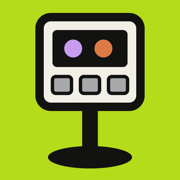
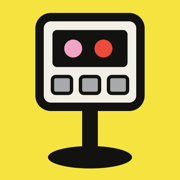
Switch to a retro festival-poster palette
Yellow #f5e43f replaces lime, pink #f3a3c4 replaces lilac, coral
#ec4b3a replaces orange, and sky blue #45b4d8 joins for the how-it-works
band, the fourth included icon and the ticker dots, which now cycle
through all four. Favicon and logo marks updated to match.

diff --git a/index.html b/index.html
@@ -18,9 +18,11 @@
   --paper:#f1efe6;     /* sticker backing sheet */
   --ink:#121211;       /* brand near-black */
   --white:#ffffff;
-  --lime:#b4dc1a;      /* brand accent */
-  --lilac:#c99cf2;     /* brand light accent */
-  --orange:#dd7b47;    /* brand dark accent */
+  /* retro festival-poster palette */
+  --yellow:#f5e43f;    /* main accent: buttons, featured card, contact */
+  --pink:#f3a3c4;      /* soft accent */
+  --coral:#ec4b3a;     /* hot accent: badges, tags */
+  --blue:#45b4d8;      /* cool accent: how-it-works band */
   --muted:#5c5b52;
   --display:"Averia Serif Libre", Georgia, "Times New Roman", serif;
   --body:"Schibsted Grotesk", "Helvetica Neue", Arial, sans-serif;
@@ -33,7 +35,7 @@ html{scroll-behavior:smooth}
 body{margin:0;background:var(--paper);color:var(--ink);font:400 1.0625rem/1.55 var(--body);-webkit-font-smoothing:antialiased}
 img{max-width:100%;display:block;height:auto}
 a{color:inherit}
-:focus-visible{outline:3px solid var(--orange);outline-offset:3px}
+:focus-visible{outline:3px solid var(--coral);outline-offset:3px}
 h1,h2,h3{font-family:var(--display);font-weight:700;line-height:1.02;text-wrap:balance;margin:0;letter-spacing:-.01em}
 p{margin:0}
 .wrap{max-width:1160px;margin:0 auto;padding-left:var(--gutter-l);padding-right:var(--gutter-r)}
@@ -45,7 +47,7 @@ p{margin:0}
 .sticker{background:var(--white);border:2px solid var(--ink);border-radius:22px;box-shadow:0 0 0 7px var(--white),0 0 0 9px var(--ink),6px 10px 0 9px rgba(18,18,17,.12)}
 
 /* buttons */
-.btn{display:inline-flex;align-items:center;gap:.6em;font:700 1rem/1 var(--body);text-decoration:none;color:var(--ink);background:var(--lime);border:2px solid var(--ink);border-radius:999px;padding:1em 1.5em;box-shadow:4px 4px 0 var(--ink);transition:transform .15s ease,box-shadow .15s ease;cursor:pointer}
+.btn{display:inline-flex;align-items:center;gap:.6em;font:700 1rem/1 var(--body);text-decoration:none;color:var(--ink);background:var(--yellow);border:2px solid var(--ink);border-radius:999px;padding:1em 1.5em;box-shadow:4px 4px 0 var(--ink);transition:transform .15s ease,box-shadow .15s ease;cursor:pointer}
 .btn:hover{transform:translate(-2px,-2px);box-shadow:6px 6px 0 var(--ink)}
 .btn:active{transform:translate(2px,2px);box-shadow:2px 2px 0 var(--ink)}
 .btn svg{width:18px;height:18px}
@@ -66,14 +68,14 @@ nav .btn{padding:.7em 1.1em;font-size:.92rem;box-shadow:3px 3px 0 var(--ink)}
 .hero .wrap{display:grid;grid-template-columns:1.15fr .85fr;gap:clamp(32px,5vw,72px);align-items:center;padding-block:clamp(40px,7vw,96px)}
 .hero h1{font-size:clamp(3rem,8.2vw,6.6rem);line-height:.86}
 .hero h1 em{font-style:italic;font-weight:400;position:relative;white-space:nowrap}
-.hero h1 em::after{content:"";position:absolute;left:-.04em;right:-.04em;bottom:.04em;height:.32em;background:var(--lilac);z-index:-1;border-radius:4px}
+.hero h1 em::after{content:"";position:absolute;left:-.04em;right:-.04em;bottom:.04em;height:.32em;background:var(--pink);z-index:-1;border-radius:4px}
 .hero h1{position:relative;z-index:0}
 .hero .lede{font-size:clamp(1.1rem,1.6vw,1.3rem);max-width:34ch;margin-top:24px}
 .hero .lede strong{font-weight:700}
 .hero .cta-row{display:flex;flex-wrap:wrap;gap:16px 24px;align-items:center;margin-top:32px}
 .hero .cta-row small{font-size:.92rem;color:var(--muted)}
 .hero-art{position:relative;max-width:440px;justify-self:center;width:100%}
-.hero-art .badge{position:absolute;top:-8px;right:-2px;width:86px;height:86px;border-radius:50%;background:var(--orange);border:2px solid var(--ink);display:grid;place-items:center;text-align:center;font:700 .82rem/1.05 var(--display);transform:rotate(12deg);box-shadow:0 0 0 4px var(--white),0 0 0 6px var(--ink)}
+.hero-art .badge{position:absolute;top:-8px;right:-2px;width:86px;height:86px;border-radius:50%;background:var(--coral);border:2px solid var(--ink);display:grid;place-items:center;text-align:center;font:700 .82rem/1.05 var(--display);transform:rotate(12deg);box-shadow:0 0 0 4px var(--white),0 0 0 6px var(--ink)}
 .hero-art img{transform:rotate(-2deg)}
 @media (max-width:820px){.hero .wrap{grid-template-columns:1fr}.hero-art{max-width:340px}}
 
@@ -81,7 +83,10 @@ nav .btn{padding:.7em 1.1em;font-size:.92rem;box-shadow:3px 3px 0 var(--ink)}
 .ticker{background:var(--ink);color:var(--paper);overflow:hidden;border-block:2px solid var(--ink)}
 .ticker-track{display:flex;gap:40px;width:max-content;padding-block:14px;font:400 1.25rem/1 var(--display);animation:slide 38s linear infinite}
 .ticker-track span{display:inline-flex;align-items:center;gap:40px;white-space:nowrap}
-.ticker-track span::after{content:"";width:12px;height:12px;border-radius:50%;background:var(--lime)}
+.ticker-track span::after{content:"";width:12px;height:12px;border-radius:50%;background:var(--yellow)}
+.ticker-track span:nth-child(4n+2)::after{background:var(--coral)}
+.ticker-track span:nth-child(4n+3)::after{background:var(--blue)}
+.ticker-track span:nth-child(4n+4)::after{background:var(--pink)}
 @keyframes slide{to{transform:translateX(-50%)}}
 
 /* intro */
@@ -101,7 +106,7 @@ nav .btn{padding:.7em 1.1em;font-size:.92rem;box-shadow:3px 3px 0 var(--ink)}
 @media (max-width:820px){.intro .wrap{grid-template-columns:1fr}}
 
 /* how it works */
-.how{background:var(--lilac);border-block:2px solid var(--ink)}
+.how{background:var(--blue);border-block:2px solid var(--ink)}
 .section-head{display:flex;flex-wrap:wrap;align-items:end;justify-content:space-between;gap:16px 32px;margin-bottom:clamp(36px,5vw,56px)}
 .section-head h2{font-size:clamp(2.4rem,5vw,4rem)}
 .section-head p{max-width:38ch}
@@ -110,7 +115,7 @@ nav .btn{padding:.7em 1.1em;font-size:.92rem;box-shadow:3px 3px 0 var(--ink)}
 .step:nth-child(odd){transform:rotate(-1.2deg)}
 .step:nth-child(even){transform:rotate(1.2deg) translateY(10px)}
 .step .num{font:700 2.6rem/1 var(--display);display:flex;align-items:center;justify-content:space-between}
-.step .num span{font:700 .72rem/1 var(--body);letter-spacing:.12em;text-transform:uppercase;border:2px solid var(--ink);border-radius:999px;padding:.4em .7em;background:var(--lime)}
+.step .num span{font:700 .72rem/1 var(--body);letter-spacing:.12em;text-transform:uppercase;border:2px solid var(--ink);border-radius:999px;padding:.4em .7em;background:var(--yellow)}
 .step img{height:150px;width:auto;margin:4px auto 0;object-fit:contain}
 .step h3{font-size:1.45rem}
 .step p{font-size:.98rem}
@@ -121,9 +126,9 @@ nav .btn{padding:.7em 1.1em;font-size:.92rem;box-shadow:3px 3px 0 var(--ink)}
 .rates-grid{display:grid;grid-template-columns:repeat(3,minmax(0,1fr));gap:32px;padding:10px}
 .rate{padding:28px 26px;display:flex;flex-direction:column;gap:18px;position:relative}
 .rate:nth-child(1){background:var(--white)}
-.rate:nth-child(2){background:var(--lime);transform:translateY(-12px)}
+.rate:nth-child(2){background:var(--yellow);transform:translateY(-12px)}
 .rate:nth-child(3){background:var(--white)}
-.rate .tag{position:absolute;top:-18px;right:18px;background:var(--orange);border:2px solid var(--ink);border-radius:999px;font:700 .72rem/1 var(--body);letter-spacing:.12em;text-transform:uppercase;padding:.55em .9em;transform:rotate(4deg)}
+.rate .tag{position:absolute;top:-18px;right:18px;background:var(--coral);border:2px solid var(--ink);border-radius:999px;font:700 .72rem/1 var(--body);letter-spacing:.12em;text-transform:uppercase;padding:.55em .9em;transform:rotate(4deg)}
 .rate h3{font-size:1.6rem}
 .rate .length{font-size:.95rem;color:var(--muted);margin-top:4px}
 .rate:nth-child(2) .length{color:var(--ink)}
@@ -142,13 +147,13 @@ nav .btn{padding:.7em 1.1em;font-size:.92rem;box-shadow:3px 3px 0 var(--ink)}
 .inc{background:var(--ink);padding:28px 24px;display:flex;flex-direction:column;gap:12px}
 .inc .icon{width:52px;height:52px;border-radius:50%;display:grid;place-items:center;color:var(--ink)}
 .inc .icon svg{width:26px;height:26px}
-.inc:nth-child(1) .icon{background:var(--lime)}
-.inc:nth-child(2) .icon{background:var(--lilac)}
-.inc:nth-child(3) .icon{background:var(--orange)}
-.inc:nth-child(4) .icon{background:var(--paper)}
+.inc:nth-child(1) .icon{background:var(--yellow)}
+.inc:nth-child(2) .icon{background:var(--pink)}
+.inc:nth-child(3) .icon{background:var(--coral)}
+.inc:nth-child(4) .icon{background:var(--blue)}
 .inc h3{font-size:1.4rem}
 .inc p{color:#cfcdc2;font-size:.98rem}
-.inc .spec{font:700 .78rem/1.3 var(--body);letter-spacing:.1em;text-transform:uppercase;color:var(--lime);margin-top:auto;padding-top:8px}
+.inc .spec{font:700 .78rem/1.3 var(--body);letter-spacing:.1em;text-transform:uppercase;color:var(--yellow);margin-top:auto;padding-top:8px}
 @media (max-width:980px){.inc-grid{grid-template-columns:repeat(2,minmax(0,1fr))}}
 @media (max-width:560px){.inc-grid{grid-template-columns:1fr}}
 
@@ -161,13 +166,13 @@ nav .btn{padding:.7em 1.1em;font-size:.92rem;box-shadow:3px 3px 0 var(--ink)}
 .faq details[open]{box-shadow:4px 4px 0 var(--ink)}
 .faq summary{list-style:none;cursor:pointer;display:flex;justify-content:space-between;align-items:center;gap:16px;padding:20px 22px;font:700 1.25rem/1.2 var(--display)}
 .faq summary::-webkit-details-marker{display:none}
-.faq summary::after{content:"+";flex:none;width:32px;height:32px;border-radius:50%;border:2px solid var(--ink);display:grid;place-items:center;font:700 1.2rem/1 var(--body);background:var(--lime);transition:transform .2s ease}
-.faq details[open] summary::after{transform:rotate(45deg);background:var(--lilac)}
+.faq summary::after{content:"+";flex:none;width:32px;height:32px;border-radius:50%;border:2px solid var(--ink);display:grid;place-items:center;font:700 1.2rem/1 var(--body);background:var(--yellow);transition:transform .2s ease}
+.faq details[open] summary::after{transform:rotate(45deg);background:var(--pink)}
 .faq details p{padding:0 22px 22px;max-width:60ch}
 @media (max-width:820px){.faq .wrap{grid-template-columns:1fr}.faq-art{display:none}}
 
 /* contact */
-.contact{background:var(--lime);border-top:2px solid var(--ink)}
+.contact{background:var(--yellow);border-top:2px solid var(--ink)}
 .contact .wrap{display:grid;grid-template-columns:.9fr 1.1fr;gap:clamp(32px,6vw,80px);align-items:start}
 .contact h2{font-size:clamp(2.8rem,6.4vw,5.4rem)}
 .contact .lede{margin-top:20px;max-width:36ch;font-size:1.15rem}
@@ -181,7 +186,7 @@ form{padding:clamp(22px,3vw,34px);display:grid;grid-template-columns:1fr 1fr;gap
 label{font:700 .78rem/1 var(--body);letter-spacing:.1em;text-transform:uppercase}
 input,select,textarea{font:inherit;color:var(--ink);background:var(--paper);border:2px solid var(--ink);border-radius:12px;padding:.75em .85em;width:100%}
 textarea{min-height:120px;resize:vertical}
-input:focus,select:focus,textarea:focus{outline:3px solid var(--lilac);outline-offset:1px}
+input:focus,select:focus,textarea:focus{outline:3px solid var(--pink);outline-offset:1px}
 form .btn{justify-self:start;grid-column:1/-1}
 .form-msg{grid-column:1/-1;font-weight:500}
 .form-msg[data-state="ok"]{color:#2f5d0a}
@@ -207,10 +212,10 @@ footer nav a{text-decoration:underline;text-underline-offset:3px}
 .photos figure:first-child .sticker:hover{transform:rotate(-1deg) translateY(-6px)}
 .photos figure:last-child .sticker:hover{transform:rotate(1deg) translateY(-30px)}
 .hero-art .badge:hover{transform:rotate(0) scale(1.07)}
-.events li:hover{background:var(--lime);transform:translateY(-2px)}
+.events li:hover{background:var(--yellow);transform:translateY(-2px)}
 .logo:hover .mark{transform:rotate(-8deg)}
 .inc:hover .icon{transform:rotate(-10deg) scale(1.08)}
-.faq summary:hover::after{background:var(--lilac)}
+.faq summary:hover::after{background:var(--pink)}
 .btn:active{transform:translate(2px,2px);box-shadow:2px 2px 0 var(--ink)}
 .ticker:hover .ticker-track{animation-play-state:paused}
 @media (prefers-reduced-motion:no-preference){
